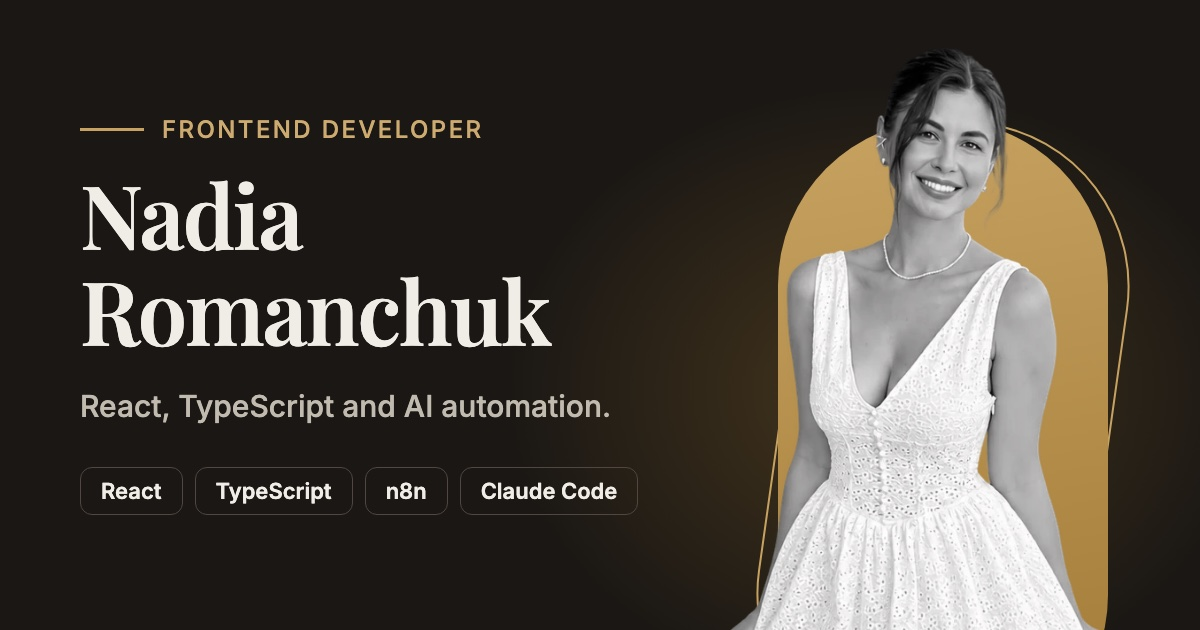
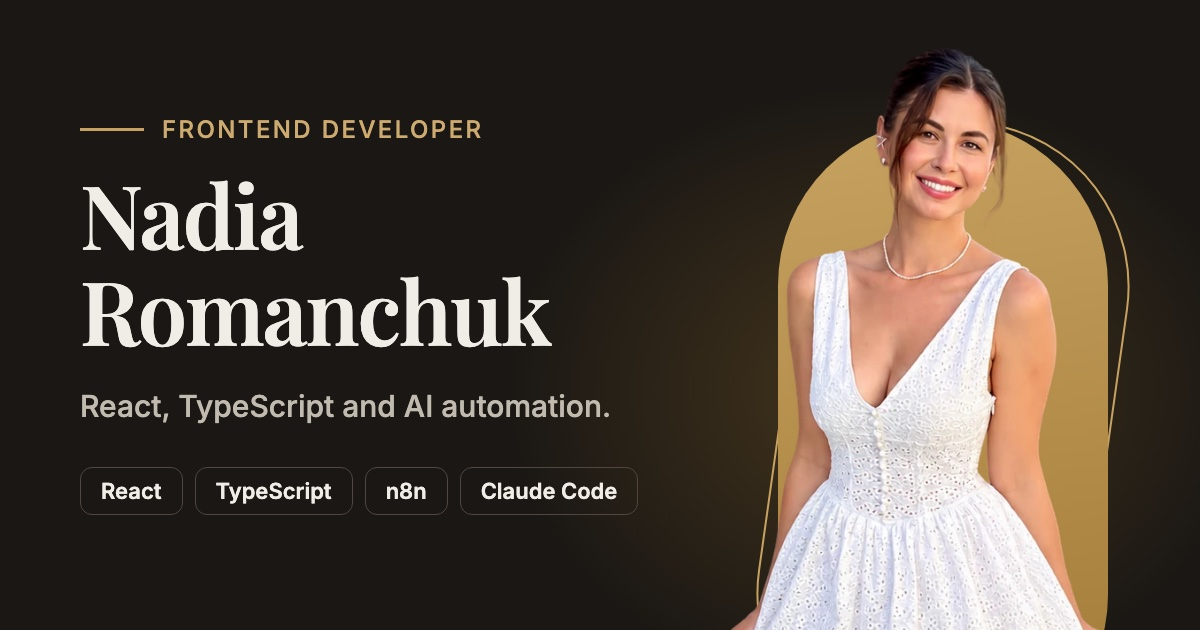
Show the About photo and link preview in full color

Changed region(s): [[0.6475, 0.1206, 0.8942, 0.9651], [0.5858, 0.9651, 0.6475, 1.0], [0.8942, 0.9651, 0.925, 1.0]]

diff --git a/src/components/about/about.css b/src/components/about/about.css
@@ -165,12 +165,10 @@
     transform-origin: center bottom;
     transition:
       translate 0.25s ease-out,
-      filter 0.6s ease,
       scale 0.6s cubic-bezier(0.22, 1, 0.36, 1);
   }
 
   .about__stage:hover .about__img {
-    filter: grayscale(0%);
     scale: 1.04;
   }
 }
@@ -194,7 +192,6 @@
   height: calc(100% - 2.25rem);
   object-fit: contain;
   object-position: center bottom;
-  filter: grayscale(100%);
   translate: calc(var(--shift-x, 0) * 10px) 0;
   transition: translate 0.25s ease-out;
 }
